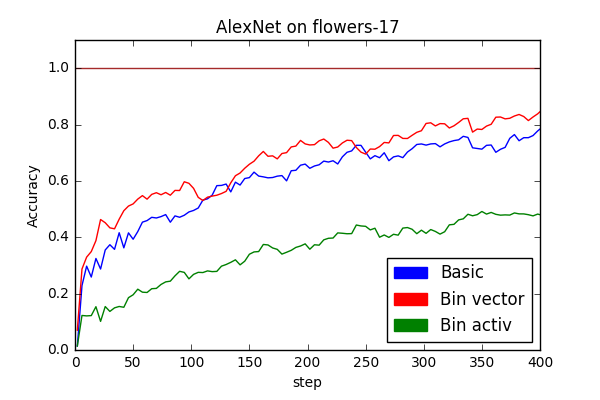
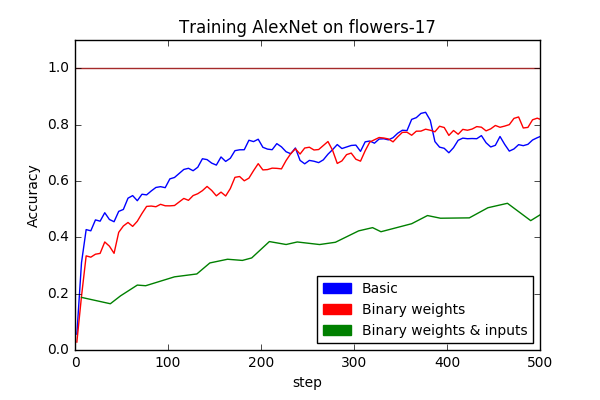
Results updated

diff --git a/docs/licencjat.tex b/docs/licencjat.tex
@@ -368,7 +368,7 @@ Currently deep neural networks get better results than state-of-the-art algorith
 	            \end{table}
 	            \begin{figure}[h]
 				\centering
-				\includegraphics[width=\textwidth]{images/LeNet}
+				\includegraphics[width=\textwidth]{images/LeNet-training}
 			\end{figure}
 		        \paragraph{Discussion} 
 			Both binarization methods acquired near state-of-the-art scores. The MNIST dataset is really simple and the LeNet structure is not complicated. Thus, the binarization does not significantly affect on the precision. The results are not surprising nor ground-braking. We made this experiment mostly for verifying our binarization methods.
@@ -382,9 +382,9 @@ Currently deep neural networks get better results than state-of-the-art algorith
                     \hline\hline
 			    Accuracy & Full-precision & Binary weights & Binary weights \& inputs \\ [0.5ex]
                     \hline
-			    top-1 & 76\% & 75\% & 61\% \\
+			    top-1 & 76\% & 79\% & 64\% \\
                     \hline
-			    top-5 & 98\% & 99\% & 91\% \\
+			    top-5 & 98\% & 95\% & 90\% \\
                     \hline
                     \end{tabular}
                     \label{table:1}
@@ -395,7 +395,7 @@ Currently deep neural networks get better results than state-of-the-art algorith
 			\end{figure}
 	            
 		        \paragraph{Discussion} 
-                        The results are promising considering the input images have high resolution. This experiment shows that fully binarized network does not lose as much precision as it was expected. Surprisngly, there is only slight difference between full-precision and binary weights network.
+                        The results are promising considering the input images have high resolution. This experiment shows that fully binarized network does not lose as much precision as it was expected. Surprisngly, the binary weights network outperforms the full-precision one.
 		\subsection{Fine-tuning results and discussion}
 		     
 		        The results of experiments are in table \ref{table:1}.
@@ -404,19 +404,19 @@ Currently deep neural networks get better results than state-of-the-art algorith
                     \centering
                     \begin{tabular}{c c c c c c}
                     \hline\hline
-			    Full-precision & Binary weights \\ [0.5ex]
+			    Full-precision & Binary weights vector factor & Binary weights scalar factor \\ [0.5ex]
                     \hline
-			    85\% & 72\% \\
+			    85\% & 72\% & 63\% \\
                     \hline
                     \end{tabular}
                     \label{table:1}
 	            \end{table}
 	            \begin{figure}[h]
 				\centering
-				\includegraphics[width=\textwidth]{images/AlexNet-flowers-102}
-			\end{figure}
+				\includegraphics[width=\textwidth]{images/Fine-tuning-AlexNet}
+		    \end{figure}
 		        \paragraph{Discussion} 
-			This experiment shows that binarized networks achieve near state-of-the-art performance also with pretrained weights, which were not trained on binarized network.
+			This experiment shows that binarized networks achieve near state-of-the-art performance also with pretrained weights, which were not trained on the binarized network.
 	\section{Residual network on CIFAR-10}
 		\subsection{Results and discussion}
 			\subsubsection{Binary weights}
@@ -444,17 +444,15 @@ Currently deep neural networks get better results than state-of-the-art algorith
 	            \begin{figure}[h]
 				\centering
 				\caption{TODO: to jest fejkowy obrazek}
-				\includegraphics[width=\textwidth]{images/AlexNet-flowers-102}
+				\includegraphics[width=\textwidth]{images/Fine-tuning-AlexNet}
 			\end{figure}
 		        \paragraph{Discussion} 
 
 		        The results of binarized network are very good comparing to standard ResNet. The property of ResNet is preserved and the are no much difference in accuracy. That is very interesting result, because it shows that binarizing ResNet is only slightly decreasing accuracy so it is worth to use it to save memory and computation time, especially on CPU.
 
-			\subsubsection{Binary Resnet with binary weights and activation}
-			        \paragraph{Results} 
-			        TODO - eksperymenty Adama albo napisać że nie wyszło
+			\subsubsection{Binary Resnet with binary weights and inputs}
 			        \paragraph{Discussion} 
-			        
+				We did not manage to train any size of ResNet with binary weights and inputs, though the authors of XNORNET claim that their network achieves near state-of-the-art results. They did not provide any code, so we were struggling with it on our own. The size of the ResNet makes it very delicate. Small change in learning rate has a great impact on the accuracy. In this experiment, the greatest (still not satisfying) accuracy achieved ResNet-2 with score of 20\%. 
 			        \begin{itemize}
 			                \item Implementation which is using tf.nn.conv2d 2 times in each binarization process is much slower. 
 			                \item Network with binarized both weights and activation is much harder to learn. In 2-layer Lenet the results were still very stable, but adding more layers, for example 14 in 2-blocks ResNet made network able to learn only during first few rounds of computation.
@@ -462,23 +460,14 @@ Currently deep neural networks get better results than state-of-the-art algorith
 			        \end{itemize}
 \chapter{Increasing number of binarized filters}
 	\section{LeNet on MNIST}
-	\subsection{Results}
-		 The results of experiments are in table \ref{table:1}.
-		\begin{figure}[h]
-				\caption{TODO: dobry obrazek}
-				\centering
-				\includegraphics[width=\textwidth]{images/filter-ratio}
-			\end{figure}
 	\subsection{Discussion}
+	Every binarization of LeNet achieved near stat-of-the-art results. The experiment in which we increase the ammount of feature maps in LeNet has no value.
+	\section{AlexNet on flowers-102}
+	\subsection{Discussion}
+	Combining pretrained feature maps with randomized one leads to trouble. Any network did not manage to converge. Only if the randomized parameters are set to values near 0, the networks start to learn. The problem is that new parameters do not have significant meaning, so this experiment reduces to the one in previous section. On the other hand, our resources are too small to obtain pretrained, scaled filters, because it requires to train AlexNet on ImageNet dataset, which has over 1.2 milion of images.
 	\section{AlexNet on flowers-17}
-	\subsection{Results}
-		 The results of experiments are in table \ref{table:1}.
-		\begin{figure}[h]
-				\caption{TODO: dobry obrazek}
-				\centering
-				\includegraphics[width=\textwidth]{images/AlexNet-flowers17}
-			\end{figure}
 	\subsection{Discussion}
+	Weights binarization led to the state-of-the-art performance, so we omit this case. Unfortunately, we did not manage to achieve greater performance on the binary weights \& inputs network with increased number of feature maps. The more we increased the ammount of feature maps, the worse accuracy on testing set we acheived (3\% on average), though the training set accuracy rised (from 73\% to 80\%). It also requires about 3 times longer training.  We were not able to run networks with higher feature map ratio than 2, because the size of the network exceed the resources of our laptops.
 	\section{ResNet on CIFAR-10}
 		\subsection{Results}
 		 The results of experiments are in table \ref{table:1}.
